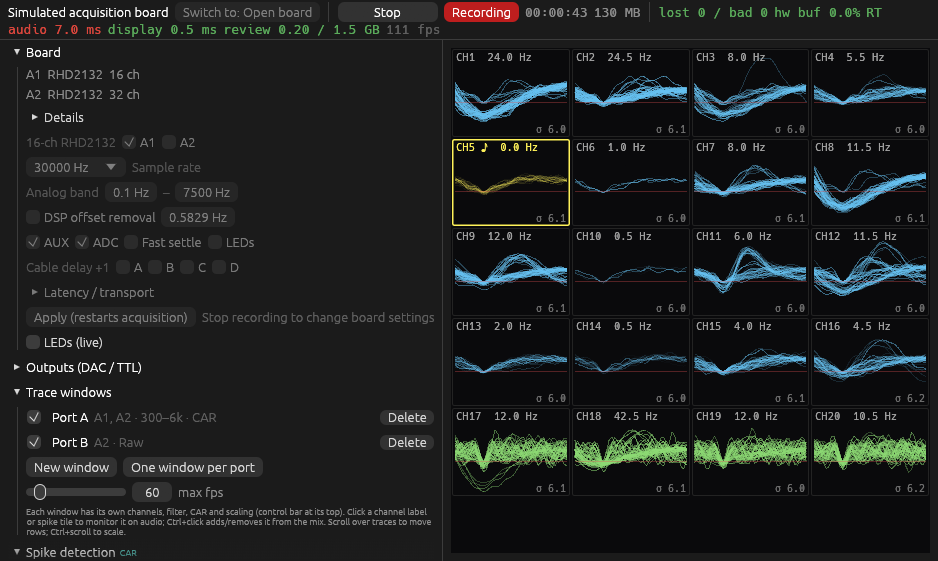
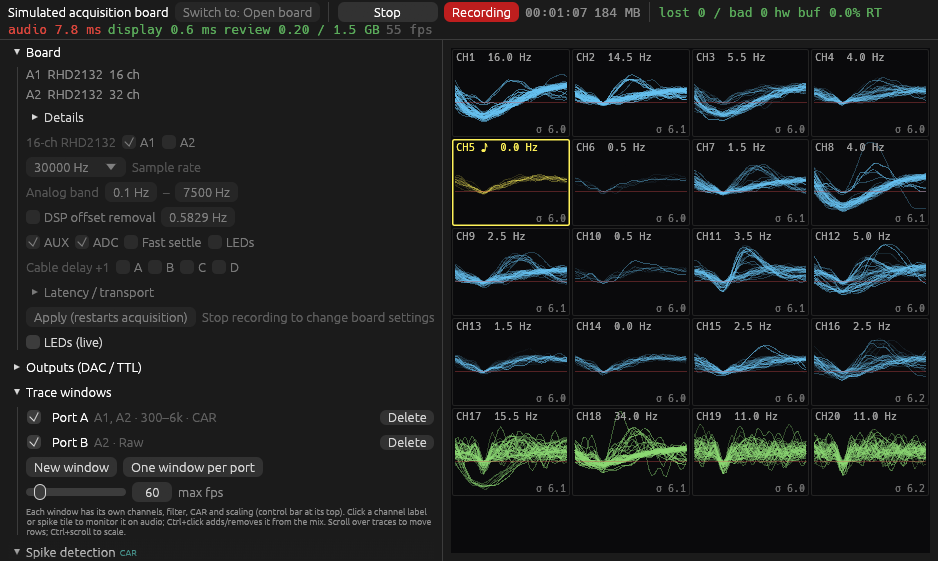
README: screenshots retaken on the current build; TTL sweeps and line picker
All five retaken (axis labels now whole), plus TTL2-triggered sweeps with
the laser-on shading and the TTL line picker. Simulator data.

diff --git a/README.md b/README.md
@@ -11,6 +11,8 @@ wraps FTDI's closed-source D3XX library.
 | **Live traces** (one window per port): 300–6k band with common-average reference, TTL lane underneath, the audio-monitored channel in yellow. | **Scroll-back review** of the ongoing recording: drag back in time, a typed note marker, TTL lanes, the overview strip and how far behind live. |
 | ![Slope-triggered sweeps](docs/screenshots/slope-trigger.png) | ![Filter settings](docs/screenshots/filter-settings.png) |
 | **Triggered sweeps** on a spike threshold crossing (drag the dashed level line), every row at the same moment. | **Raw or Band per row**, the band's corners, µV/row and CAR in one palette. |
+| ![TTL-triggered sweeps](docs/screenshots/ttl-sweeps.png) | ![TTL line picker](docs/screenshots/ttl-lines.png) |
+| **Sweeps on a TTL edge** (here the laser line, TTL2), shaded while the line is high, for opto-tagging. The simulated units don't respond to the laser. | **Pick the TTL lines** the overlay shows, e.g. hide a camera trigger. |
 
 ![Main window](docs/screenshots/main-window.png)
 
